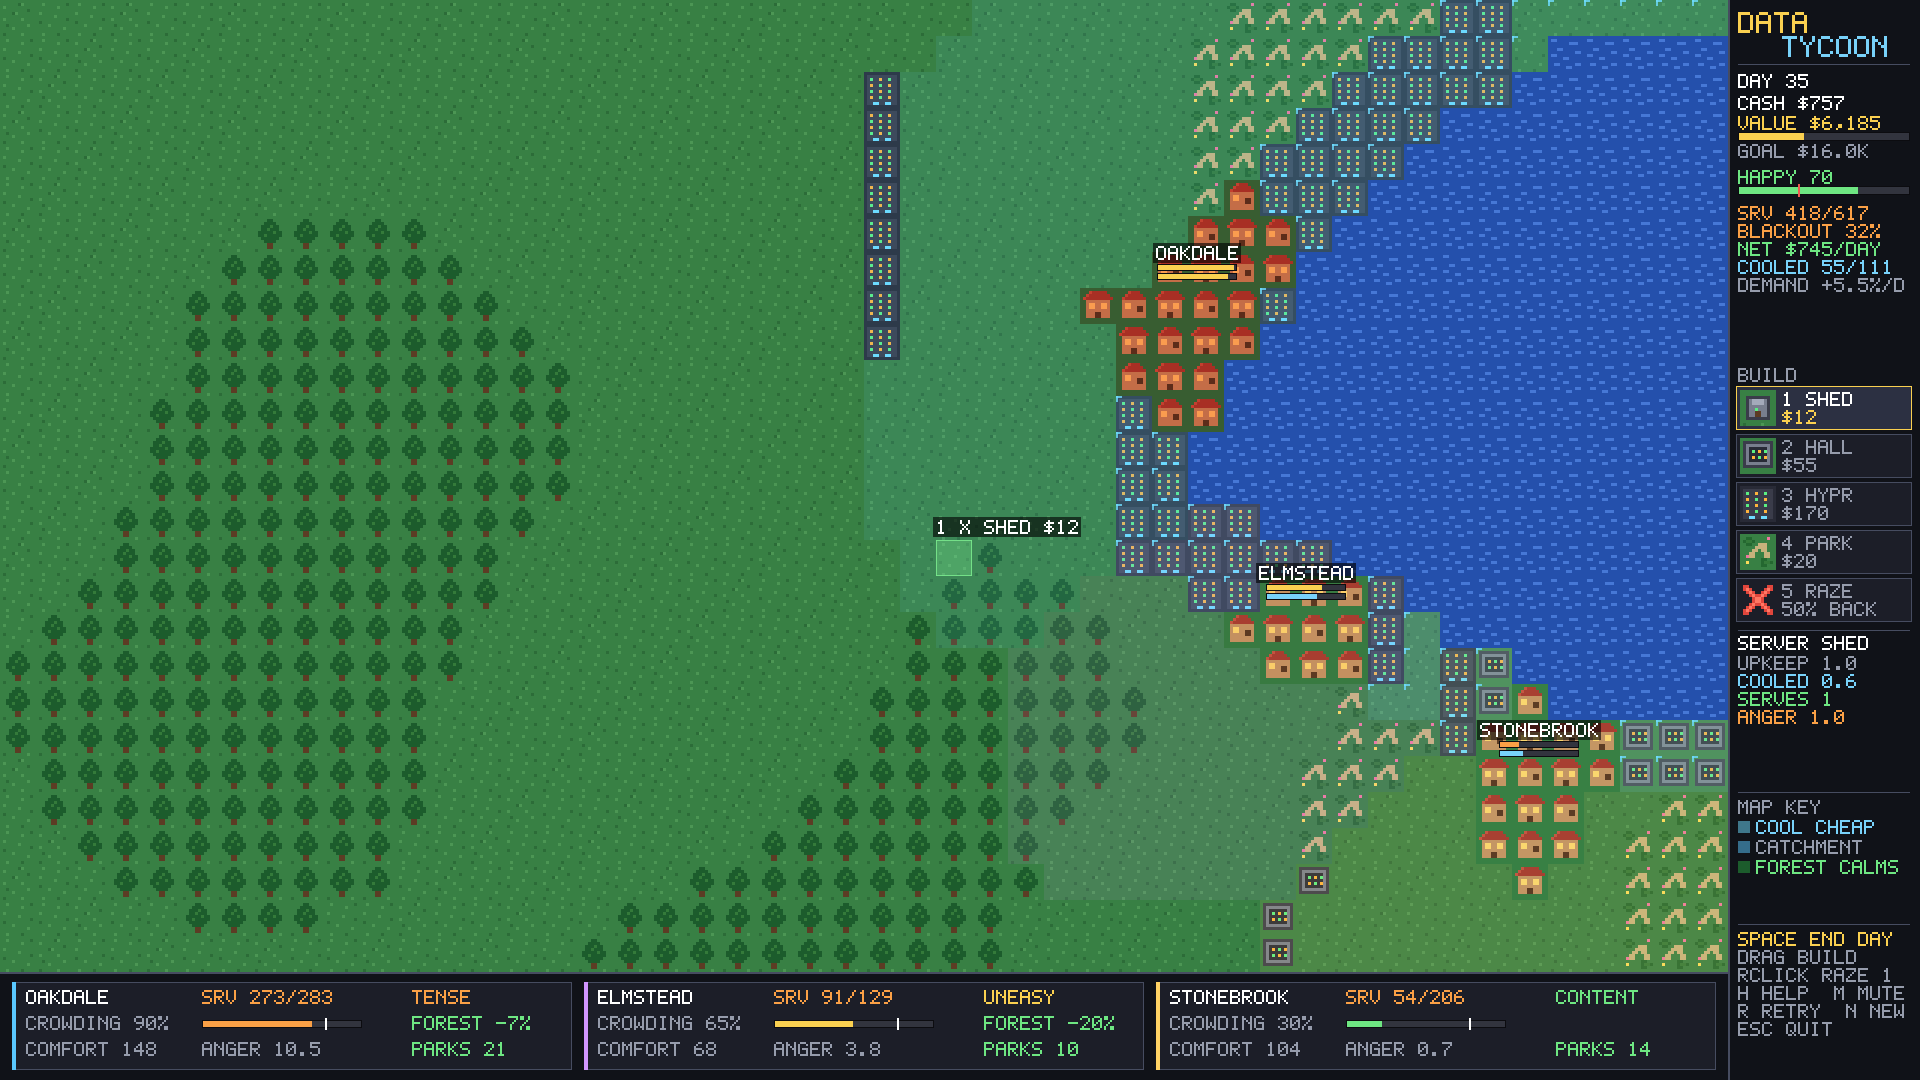
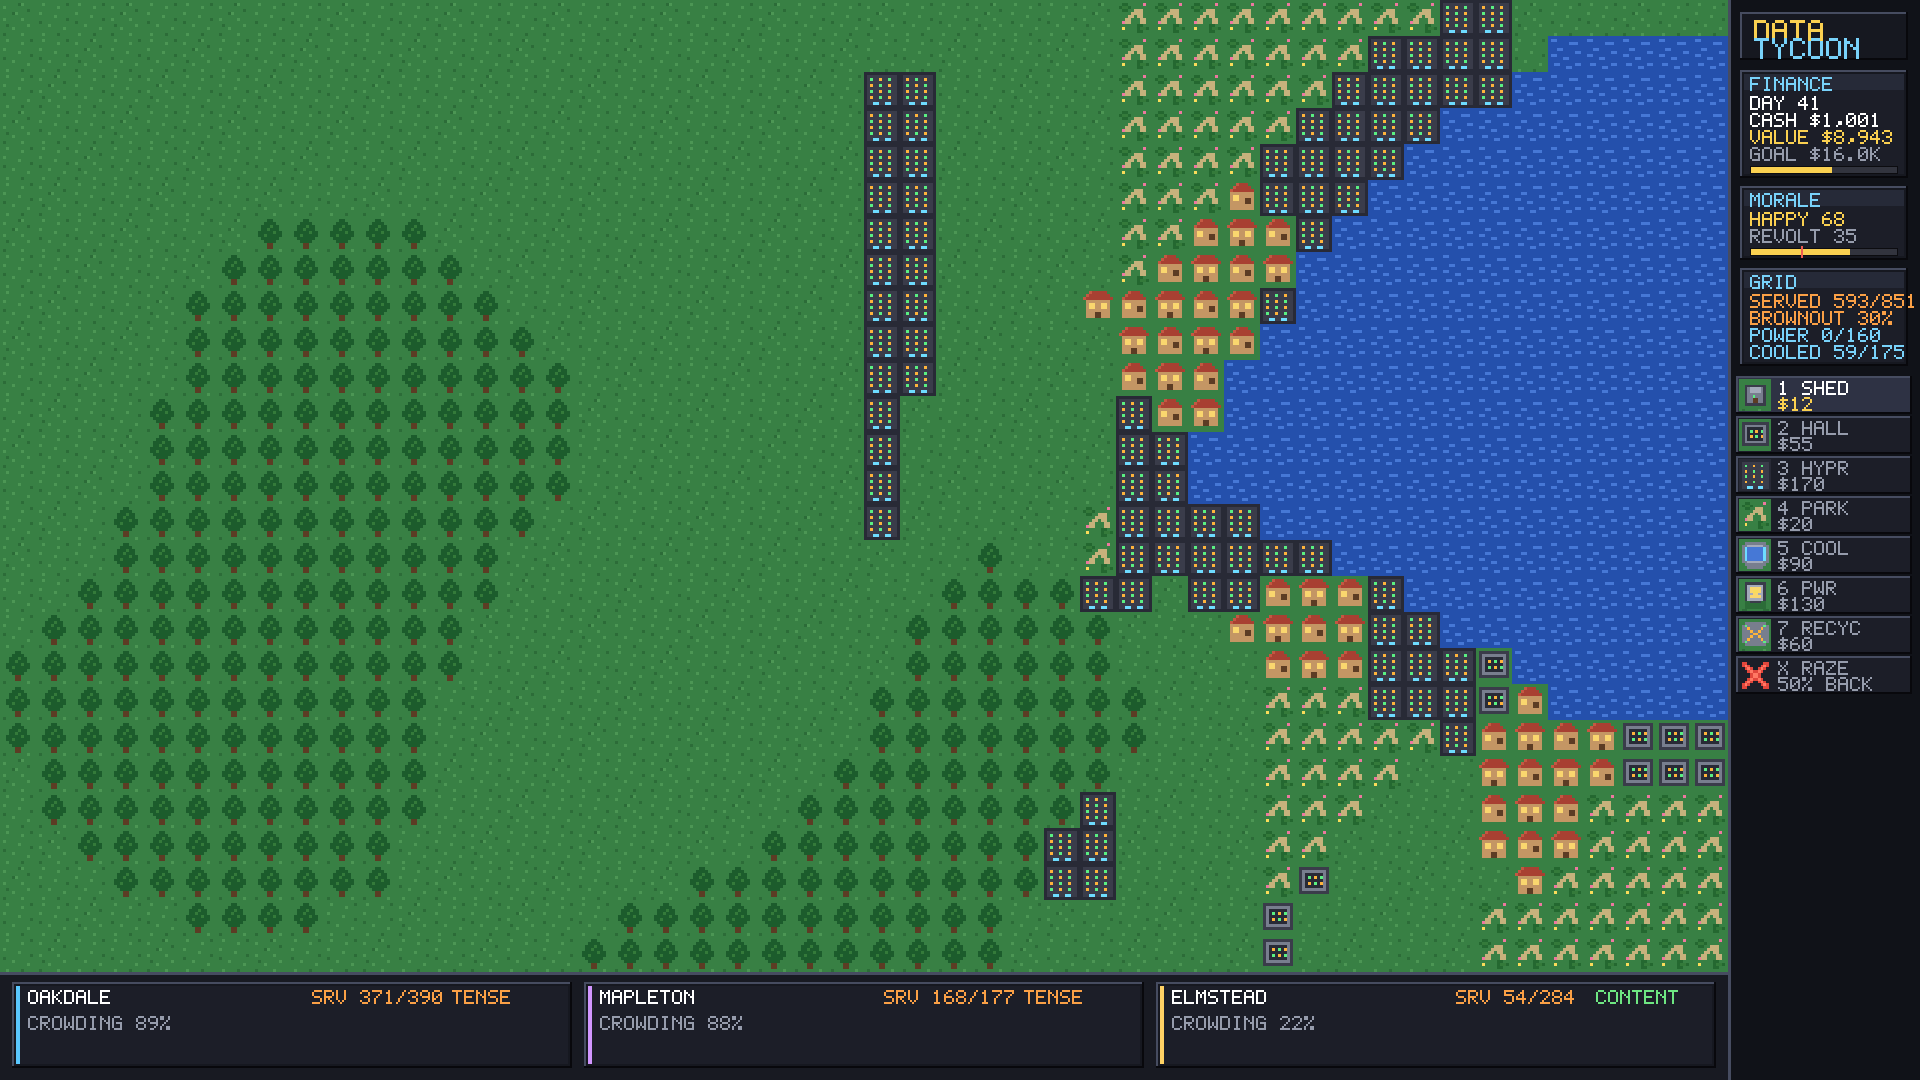
Fix sidebar truncation; add real doc screenshots
- Sidebar FINANCE/MORALE chunks were overrunning the panel width and
  clipping the win-goal and revolt-threshold strings. Split VALUE/GOAL
  onto separate lines and shorten REVOLT BELOW -> REVOLT.
- Document the CPU screenshot tool in the README and commit fresh
  menu / setup / gameplay screenshots to docs/.

Verified via the new screenshot tool: sidebar text reads cleanly
(VALUE $8,943 / GOAL $16.0K / REVOLT 35), no truncation.

Validated: 16/16 selftests, 0 warnings.

diff --git a/Game1.cs b/Game1.cs
@@ -130,8 +130,8 @@ public class Game1 : Game
         if (_shotPath != null)
         {
             _sim = new Sim(new MapGenerator(_shotSeed ?? 1000L));
-            if (_shotDays <= -100) { _screen = Screen.Menu; _setupOpen = false; }
-            else if (_shotDays <= -200) { _screen = Screen.Menu; _setupOpen = true; }
+            if (_shotDays <= -200) { _screen = Screen.Menu; _setupOpen = true; }
+            else if (_shotDays <= -100) { _screen = Screen.Menu; _setupOpen = false; }
             else
             {
                 _screen = Screen.Playing;
@@ -644,14 +644,15 @@ public class Game1 : Game
         {
             ($"DAY {_sim.Day}", Color.White),
             ($"CASH {ShortMoney(_sim.Money)}", Color.White),
-            ($"VALUE {ShortMoney(_sim.NetWorth)} / {ShortMoney(_sim.EffectiveWinGoal)}", TextGold),
+            ($"VALUE {ShortMoney(_sim.NetWorth)}", TextGold),
+            ($"GOAL {ShortMoney(_sim.EffectiveWinGoal)}", TextDim),
         }, bar: _sim.NetWorth / _sim.EffectiveWinGoal, barColor: TextGold);
 
         Color hColor = HappinessColor(_sim.Happiness);
         y = SoftChunk(c, x, y, "MORALE", new (string, Color)[]
         {
             ($"HAPPY {_sim.Happiness:F0}", hColor),
-            ($"REVOLT BELOW {Sim.HAPPINESS_LOSE:F0}", TextDim),
+            ($"REVOLT {Sim.HAPPINESS_LOSE:F0}", TextDim),
         }, bar: _sim.Happiness / 100f, barColor: hColor, markFrac: Sim.HAPPINESS_LOSE / 100f);
 
         var (demand, served) = _sim.DemandServed();
